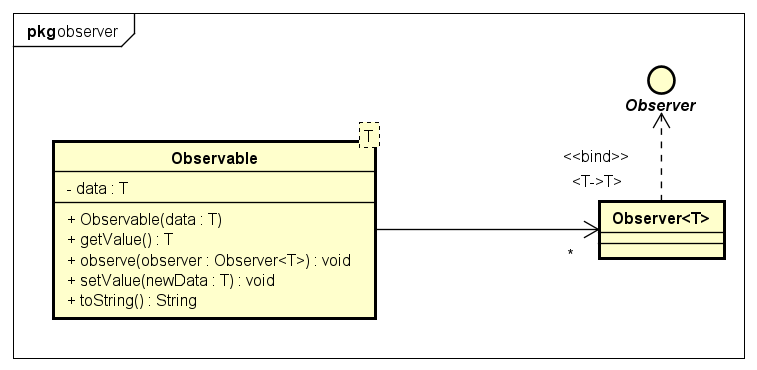
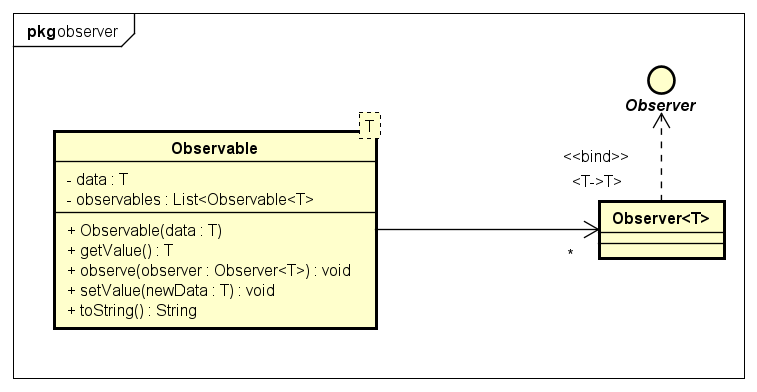
integrazione descrizione pattern

diff --git a/capitoli/5_5_codifica.tex b/capitoli/5_5_codifica.tex
@@ -1,7 +1,7 @@
 % !TEX encoding = UTF-8
 % !TEX TS-program = pdflatex
 % !TEX root = ../tesi.tex
-
+\newpage
 \section{Codifica}\label{sec:codifica}
 Per la fase di codifica sono state adottate le seguenti convenzioni:
 \begin{itemize}
@@ -11,6 +11,20 @@ Per la fase di codifica sono state adottate le seguenti convenzioni:
     \item la gestione delle eccezioni deve essere venir fatta sempre dal chiamante;
     \item per ogni classe e ogni metodo deve essere fornita una descrizione in JavaDoc.
 \end{itemize}
+\subsection{Inizializzazione View}\label{subsec:inizializzazione-view}
+Il seguente segmento del codice è necessario per creare completare la relazione di osservazione che esiste tra la View e il Model.
+\begin{lstlisting}[caption={Inizializzazione relazione di osservazione View e Model},label={lst:lstlisting}]
+model.getApkName().observe(newValue -> {
+    view.getPackageInfo().setText(newValue);
+    view.getBtnStartDecompile().setEnabled(!newValue.equalsIgnoreCase(""));
+});
+model.getAvdList().observe(lis -> view.getCbAvdList().setModel(new DefaultComboBoxModel<>(lis)));
+model.getIsDecompiled().observe(newValue -> {
+    JButton[] controlledButtons = view.getControlledButtons();
+    for (JButton controlledButton : controlledButtons) controlledButton.setEnabled(newValue);
+});
+\end{lstlisting}
+Nella View è presente un'eticchetta che mostra il file APK selezionato da decompilare, questa componente della view osserva l'attributo \textit{apkName} del modello, e una volta selezionato il file, viene ottenuto il path del file APK e aggiornato il modello, l'etichetta riceverà la notifica con il path aggiornato.
 
 \subsection{Analisi del codice e generazione del pdf}\label{subsec:analisi-del-codice-e-generazione-del-pdf}
 Dopo aver decompilato un file \textit{.apk}, e decodificato i file \textit{dex} l'utente può scegliere di effettuare l'operazione di analisi offerta dal tool.
@@ -22,26 +36,26 @@ Questa funzionalità si deve istanziare un oggetto di tipo BaseAnalyzer, e in ba
 \end{figure}
 Di seguito è il codice che si occupa di "decorare" l'oggetto base, effettuare l'analisi e quindi generare un file pdf contenente il risultato:
 
-\begin{lstlisting}[label={lst:analyze}]
+\begin{lstlisting}[caption={Decorator},label={lst:analyze}]
 public void analyze(Map< String, Boolean > thingsTodo, File blackList, File whiteList) {
-        ...
+...
 Analyze analyze = new BaseAnalyzer(thingsTodo.get(AnalysisChooser.LIST_FILE), decompiledFiles);
 ...
 // se analyzeString==true, allora analizzo le stringhe
 if (thingsTodo.get(AnalysisChooser.FIND_STRING)) {
-        analyze = new StringFinder(analyze, blackList);
+    analyze = new StringFinder(analyze, blackList);
 }
-        // se analyzeLambda==true, allora analizzo le lambda
+    // se analyzeLambda==true, allora analizzo le lambda
 if (thingsTodo.get(AnalysisChooser.COUNT_LAMBDA)) {
-        analyze = new LambdaCounter(analyze);
+    analyze = new LambdaCounter(analyze);
 }
-        if (thingsTodo.get(AnalysisChooser.DUMPED_FILE)) {
-        analyze = new DumpedFilesAnalyzer(analyze, whiteList);
+    if (thingsTodo.get(AnalysisChooser.DUMPED_FILE)) {
+    analyze = new DumpedFilesAnalyzer(analyze, whiteList);
 }
-        if (thingsTodo.get(AnalysisChooser.LIST_DBS)) {
-        analyze = new DumpDataBase(analyze);
+    if (thingsTodo.get(AnalysisChooser.LIST_DBS)) {
+    analyze = new DumpDataBase(analyze);
 }
-        ...
+...
 PDFWriter pdfWriter = new PDFWriter(resultFile);
 pdfWriter.addParagraphs(analyze.getResult());
 ...
@@ -58,7 +72,7 @@ Per il corretto funzionamento del tool è necessario che all'avvio venga instanz
 \end{itemize}
 Il seguente segmento di codice risolve tale problema:
 
-\begin{lstlisting}[label={lst:commands}]
+\begin{lstlisting}[caption={Creazione dell'istanza di Commands in base al S.O.},label={lst:commands}]
 Commands commands;
 String osInfo = System.getProperty("os.name");
 if (containsIgnoreCase(osInfo, "windows")) {

diff --git a/capitoli/5_4_design_pattern_utilizzati.tex b/capitoli/5_4_design_pattern_utilizzati.tex
@@ -5,7 +5,7 @@
 \newpage
 \section{Design Pattern utilizzati}\label{sec:design-pattern-utilizzati}
 Di seguito, sono elencati i design pattern utilizzati durante la creazione del tool. Per ognuno di questi, verrà fornito il diagramma delle classi e una descrizione.
-\subsection*{Model View Controller}\label{subsec:model-view-controller}
+\subsection{Model View Controller}\label{subsec:model-view-controller}
 Come pattern architetturale è stato adottato il pattern Model-View-Controller, poiché è in grado di separare la logica di presentazione dei dati dalla logica di business.\\
 L'applicazione di tale pattern avviene attraverso il pattern Observer, nello specifico, le singole componenti della vista osservano i valori della classe Modello, in questo modo, quando il valore di un determinato attributo viene modificato, il nuovo valore viene notificato alla componente della vista.
 \begin{figure}[H]
@@ -15,8 +15,9 @@ L'applicazione di tale pattern avviene attraverso il pattern Observer, nello spe
 \end{figure}
 
 \newpage
-\subsection*{Observer}\label{subsec:observer}
+\subsection{Observer}\label{subsec:observer}
 Il pattern observer permette di definire una dipendenza uno a molti fra oggetti, in modo tale che se un oggetto cambia il suo stato, tutti gli oggetti dipendenti da questo siano notificati e aggiornati automaticamente.\\
+L'implementazione di tale pattern avviene attraverso una classe \textit{Observable} e un'interfaccia \textit{Observer} entrambe template, per modificare il valore dell'observable è sufficiente utilizzare il metodo \textit{setValue(newValue:T)}, in questo modo, su ogni elemento della lista \textit{observables} viene invocato il metodo \textit{onChanged} passando il nuovo valore.\\
 Tale pattern viene applicato nel tool perché i componenti delle viste possano osservare il contenuto del modello.
 \begin{figure}[H]
     \centering
@@ -25,7 +26,7 @@ Tale pattern viene applicato nel tool perché i componenti delle viste possano o
 \end{figure}
 
 \newpage
-\subsection*{Decorator}\label{subsec:decorator}
+\subsection{Decorator}\label{subsec:decorator}
 Il pattern decorator è stato utilizzato per creare la parte del tool che si occupa di effettuare l'analisi del codice decompilato e dei file scaricati dall'area di storage dell'applicazione presenti nell'Android Emulator Device.\\
 Il vantaggio ottenuto per aver utilizzato questo pattern è quello di poter "decorare" l'oggetto base di analisi, ovvero l'istanza della classe \textit{BaseAnalyzer} con i vari decorator, un altro importante vantaggio è quello di poter aggiungere altre funzionalità di analisi facilmente nel tool, infatti, è sufficiente creare un'altra sottoclasse della classe \textit{BaseAnalyzeDecorator} quindi implementare il metodo astratto.
 \begin{figure}[H]
@@ -35,7 +36,7 @@ Il vantaggio ottenuto per aver utilizzato questo pattern è quello di poter "dec
 \end{figure}
 
 \newpage
-\subsection*{Factory Method}\label{subsec:factory-method}
+\subsection{Factory Method}\label{subsec:factory-method}
 Questo pattern è stato utilizzato per poter fornire al controller dei comandi da eseguire nei processi, essendo i comandi dipendente dal sistema operativo, sono state create due classi, una per Windows chiamata \textit{WindowsCommandFactory} e una per Linux chiamata \textit{LinuxCommandFactory}.
 Allo start-up del tool, viene letta una dalla JVM una variabile chiamata \textit{os.name}, e dipendentemente da valore letto, viene deciso quale delle sottoclassi istanziare per il corretto funzionamento del tool.
 \begin{figure}[H]

diff --git a/capitoli/5_2_ciclo_di_vita.tex b/capitoli/5_2_ciclo_di_vita.tex
@@ -8,6 +8,6 @@ Inoltre, tale modello di sviluppo ha come conseguenza i seguenti vantaggi:
 \begin{itemize}
     \item assegnare diverse priorità agli obiettivi da raggiungere, in modo che quelli più importanti vengano raggiunti prima;
     \item è possibile mostrare il prodotto al termine di ogni incremento in questo modo si assicura che il risultato di ogni incremento sia consono alle aspettative del cliente;
-    \item la fase di verifica avviene ad ogni incremento in modo da garantire la correttezza del prodotto di ogni incremento;
+    \item la fase di verifica avviene a ogni incremento in modo da garantire la correttezza del prodotto di ogni incremento;
     \item a ogni incremento vengono aggiunte delle funzionalità corrette e funzionanti, allora il prodotto finale soddisfa i requisiti del cliente;
 \end{itemize}

diff --git a/capitoli/5_0_progettazione_codifica.tex b/capitoli/5_0_progettazione_codifica.tex
@@ -10,8 +10,9 @@
 %**************************************************************
 
 \intro{In questo capitolo vengono presentate le tecnologie e gli strumenti utilizzati, il ciclo di sviluppo del software adottato e i design pattern utilizzati.}\\
+
 \input{./capitoli/5_1_tecnologie_strumenti.tex}
 \input{./capitoli/5_2_ciclo_di_vita.tex}
-\input{capitoli/5_3_progettazione}
-\input{capitoli/5_4_design_pattern_utilizzati}
-\input{capitoli/5_5_codifica}
+\input{./capitoli/5_3_progettazione.tex}
+\input{./capitoli/5_4_design_pattern_utilizzati.tex}
+\input{./capitoli/5_5_codifica.tex}

diff --git a/capitoli/5_3_progettazione.tex b/capitoli/5_3_progettazione.tex
@@ -6,7 +6,7 @@
 \section{Progettazione}
 \label{sec:progettazione}
 
-\subsection{Package}\label{subsec:package}
+\subsection*{Package}\label{subsec:package}
 Questo è il root package del tool, contiene altri package e le due classi elencati successivamente.
 \begin{namespacedesc}
     \classdesc{ApatLauncher}{È la classe di launcher del tool, si occupa principalmente di mettere in relazione di observed-observer i componenti della vista con i dati del modello;}
